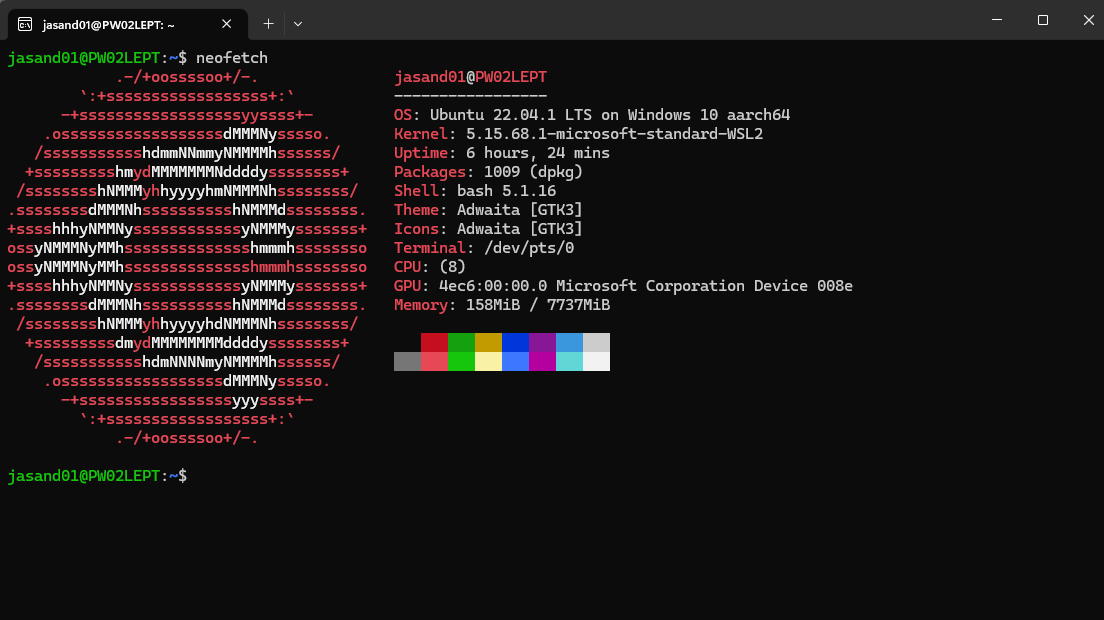
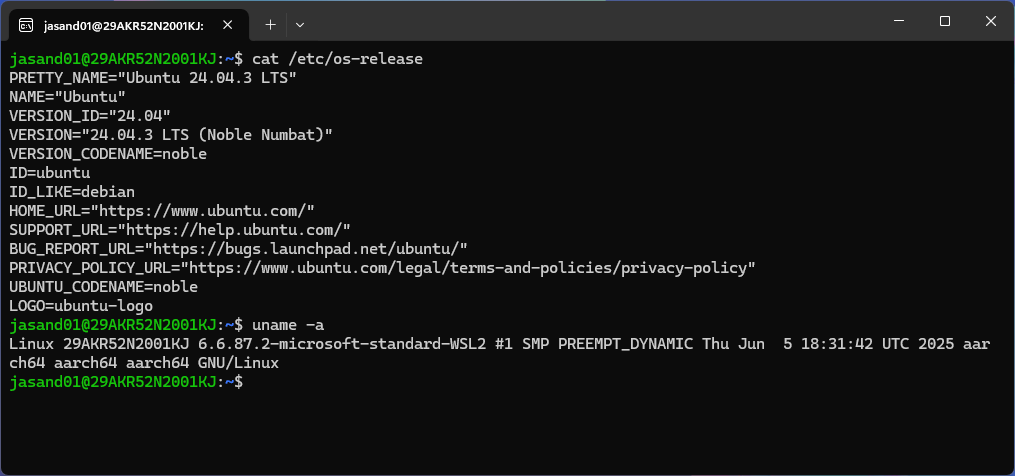
Update Windows on Arm WSL Learning Path

Changed region(s): [[0.0, 0.0, 1.0, 0.8235], [0.9773, 0.9706, 1.0, 1.0], [0.0, 0.9706, 0.0305, 1.0]]

diff --git a/content/learning-paths/laptops-and-desktops/wsl2/import.md b/content/learning-paths/laptops-and-desktops/wsl2/import.md
@@ -43,37 +43,4 @@ wsl -d alpine1
 
 Alpine Linux is now running in WSL.
 
-### Install Raspberry Pi OS
-
-Check the [Raspberry Pi OS Downloads](http://downloads.raspberrypi.org/)
-
-Navigate to [raspios_lite_arm64](http://downloads.raspberrypi.org/raspios_lite_arm64/)
-
-Download the root filesystem named [root.tar.xz](http://downloads.raspberrypi.org/raspios_lite_arm64/root.tar.xz)
-
-At a Windows Command Prompt import the downloaded filesystem into WSL as a Linux distribution:
-
-```cmd
-wsl --import rpios c:\Users\<username>\rpios root.tar.xz
-```
-
-The name of the distribution will be `rpios`
-
-The storage will be in `C:\Users\<username>\rpios`
-
-When the import is complete, list the installed distributions:
-
-```cmd
-wsl --list
-```
-
-The new `rpios` distribution will be on the list.
-
-Start Raspberry Pi OS:
-
-```cmd
-wsl -d rpios
-```
-
-Raspberry Pi OS on aarch64 is now running in WSL.
 

diff --git a/content/learning-paths/laptops-and-desktops/wsl2/setup.md b/content/learning-paths/laptops-and-desktops/wsl2/setup.md
@@ -59,7 +59,7 @@ The operation completed successfully.
 
 ## Install a Linux distribution
 
-Once WSL 2 is installed, the Microsoft store is the easiest place to find a Linux distribution. [Installing Ubuntu 22.04](https://apps.microsoft.com/store/detail/ubuntu-22041-lts/9PN20MSR04DW) is quick and easy from the store. 
+Once WSL 2 is installed, the Microsoft store is the easiest place to find a Linux distribution. [Installing Ubuntu 24.04](https://apps.microsoft.com/detail/9nz3klhxdjp5?hl=en-US&gl=US) is quick and easy from the store. 
 
 There are other Linux distributions available in the Microsoft Store. Make sure to select the ones that work on Arm. Some do not work and it may be some trial-and-error to identify those that work on Arm.
 
@@ -74,24 +74,33 @@ wsl --list --online
 The output will list the available distributions:
 
 ```output
+The following is a list of valid distributions that can be installed.
+Install using 'wsl.exe --install <Distro>'.
+
 NAME                   FRIENDLY NAME
-Ubuntu                 Ubuntu
+AlmaLinux-8            AlmaLinux OS 8
+AlmaLinux-9            AlmaLinux OS 9
+AlmaLinux-Kitten-10    AlmaLinux OS Kitten 10
+AlmaLinux-10           AlmaLinux OS 10
 Debian                 Debian GNU/Linux
+FedoraLinux-42         Fedora Linux 42
+Ubuntu                 Ubuntu
+Ubuntu-24.04           Ubuntu 24.04 LTS
 kali-linux             Kali Linux Rolling
-Ubuntu-18.04           Ubuntu 18.04 LTS
+openSUSE-Tumbleweed    openSUSE Tumbleweed
+openSUSE-Leap-16.0     openSUSE Leap 16.0
 Ubuntu-20.04           Ubuntu 20.04 LTS
 Ubuntu-22.04           Ubuntu 22.04 LTS
-Ubuntu-24.04           Ubuntu 24.04 LTS
-openSUSE-Tumbleweed    openSUSE Tumbleweed
+openSUSE-Leap-15.6     openSUSE Leap 15.6
 ```
 
 Install a distribution from this list:
 
 ```cmd
-wsl --install Ubuntu
+wsl --install Ubuntu-24.04
 ```
 
-Be patient, the progress may stay on 0 for a bit.
+Be patient, the download and install takes some time.
 
 After installation, each Linux distribution will have an icon on the Windows application menu. Use this icon to start WSL with the Linux distribution. 
 
@@ -154,7 +163,7 @@ wsl --list --running
 Terminate a running distribution:
 
 ```console
-wsl --terminate Ubuntu-22.04
+wsl --terminate Ubuntu-24.04
 ```
 
 Shutdown all running distributions:
@@ -166,7 +175,7 @@ wsl --shutdown
 Unregister the Linux distribution and delete the filesystem:
 
 ```console
-wsl --unregister Ubuntu-22.04
+wsl --unregister Ubuntu-24.04
 ```
 
 Update WSL to the latest version:

diff --git a/content/learning-paths/laptops-and-desktops/wsl2/backup.md b/content/learning-paths/laptops-and-desktops/wsl2/backup.md
@@ -10,7 +10,7 @@ layout: learningpathall
 Use the export command to save the state of a WSL instance.
 
 ```bash
-wsl --export Ubuntu-22.04 ubuntu-backup.tar
+wsl --export Ubuntu-24.04 ubuntu-backup.tar
 ```
 
 The tar file can be copied and imported to the same machine or to another machine.